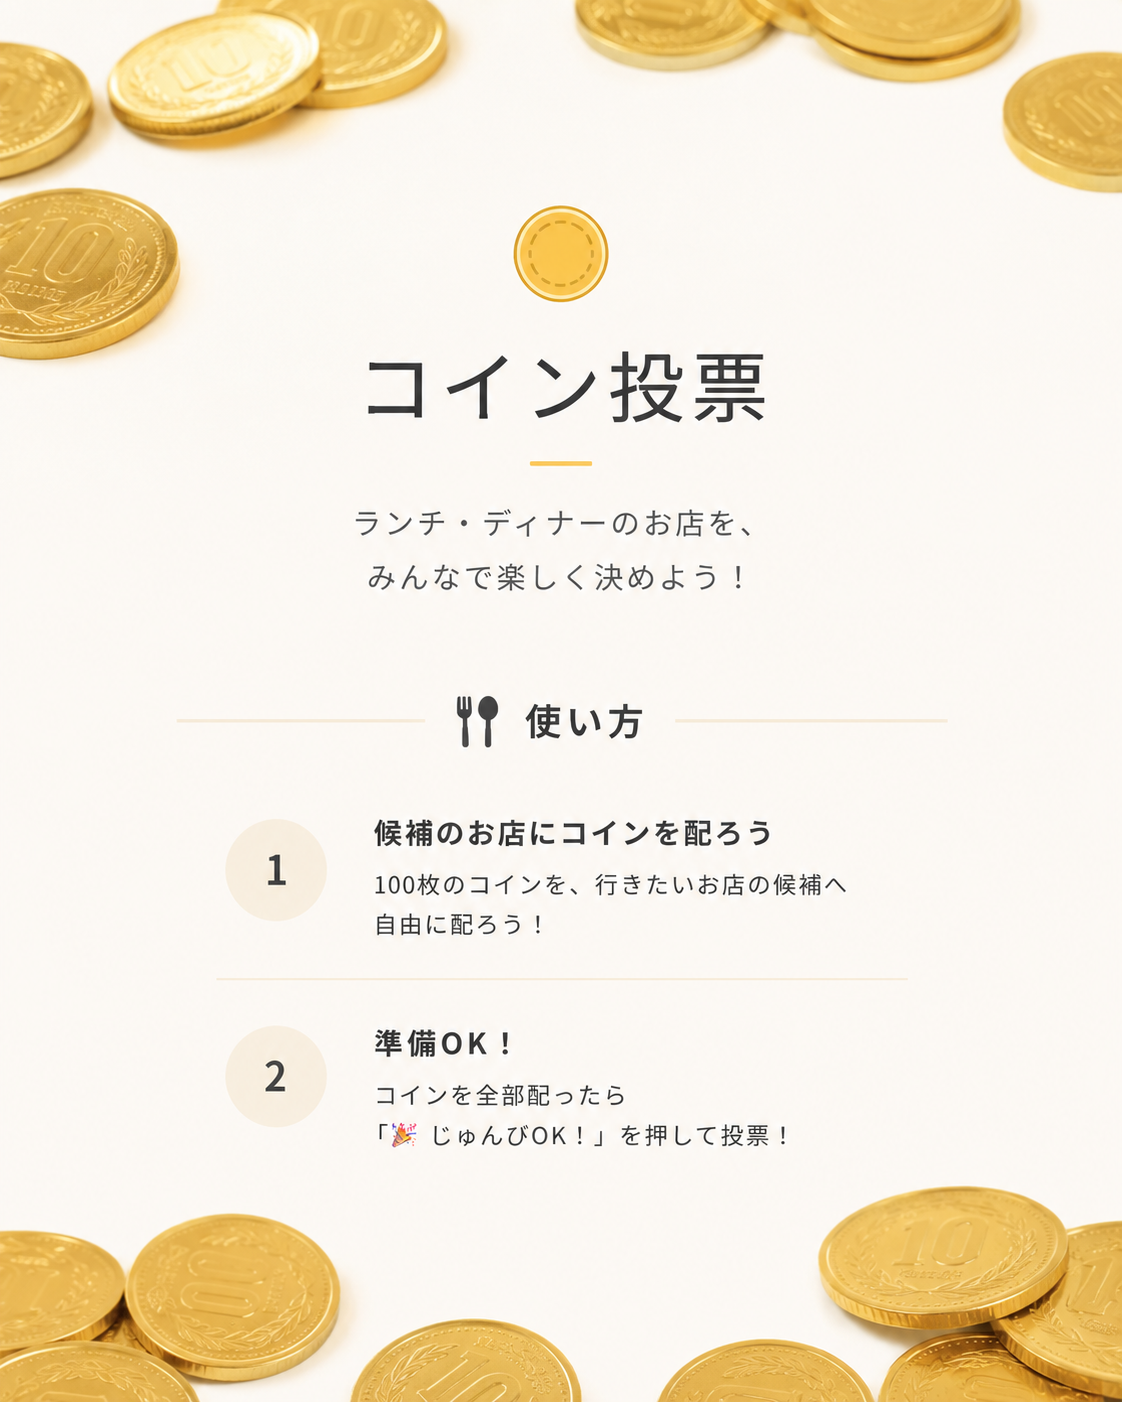
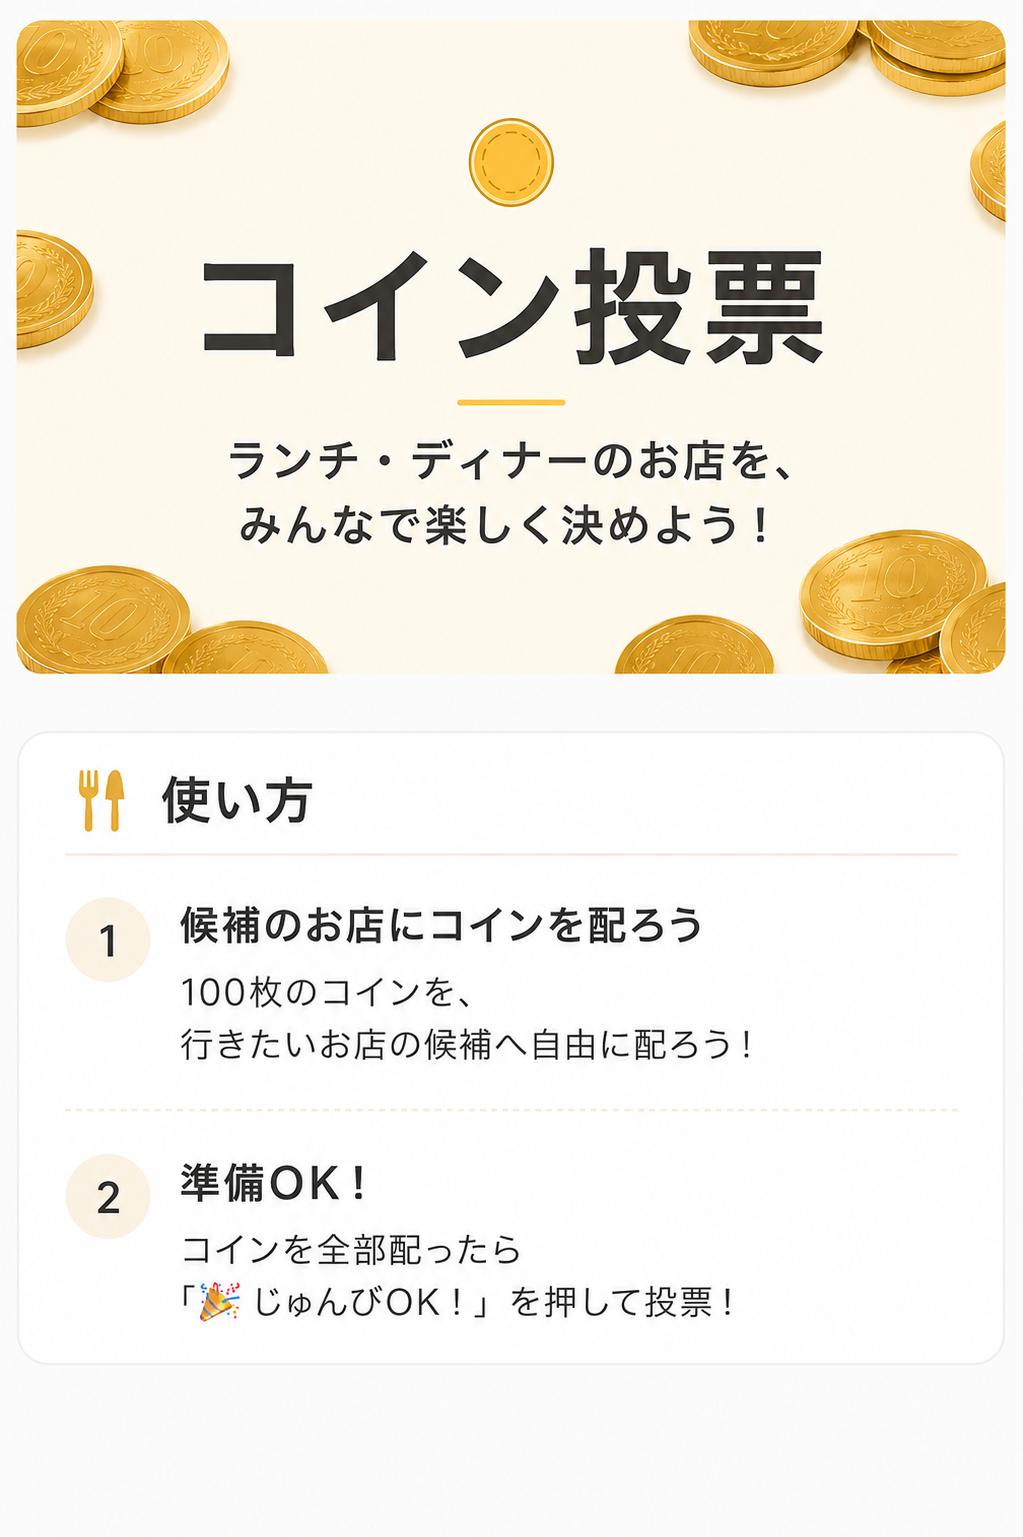
fix: replace hero image with new version (1023×1537)

diff --git a/app/page.tsx b/app/page.tsx
@@ -91,8 +91,8 @@ export default async function VotingPage() {
         <Image
           src="/coin-hero.png"
           alt={title}
-          width={1122}
-          height={1402}
+          width={1023}
+          height={1537}
           className="w-full h-auto object-contain block"
           style={{ maxHeight: '480px' }}
           priority
